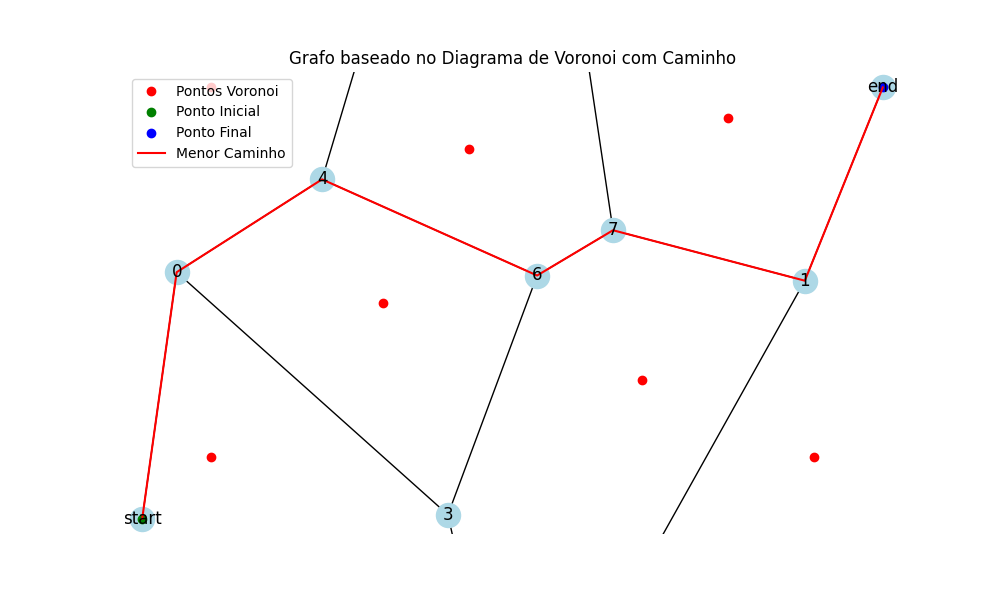
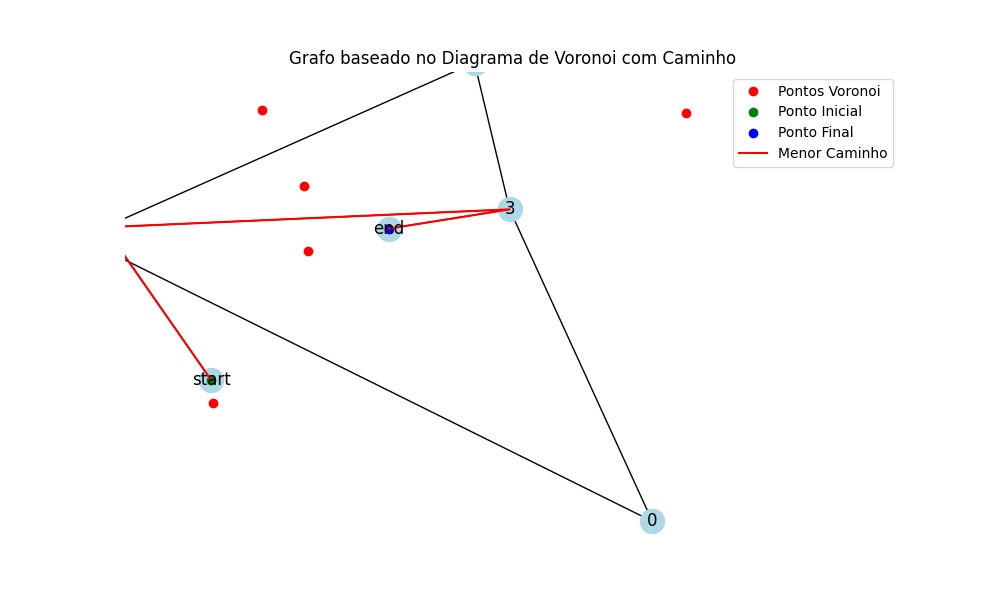
apenas execute o vizualizador, por em quanto caminho apenas para um bob, o voronoi ainda ta meia bomba, mas esta meio funcional, o suficiente para testar

diff --git a/motion/veronoi.py b/motion/veronoi.py
@@ -14,10 +14,10 @@ class VoronoiGraph:
     def __init__(self, points):
         """
         Inicializa o grafo baseado no diagrama de Voronoi.
-        :param points: Lista de pontos iniciais para o diagrama de Voronoi.
+        :param points: Lista de pontos iniciais para o diagrama de Voronoi (como objetos Pose2D).
         """
-        self.points = np.array(points)
-        self.vor = Voronoi(self.points)
+        self.points = [Pose2D(p.x, p.y) for p in points]
+        self.vor = Voronoi([[p.x, p.y] for p in self.points])
         self.graph = nx.Graph()
         self._build_graph()
 
@@ -35,12 +35,12 @@ class VoronoiGraph:
     def add_point(self, point, point_name):
         """
         Adiciona um ponto externo ao grafo, conectando-o ao vértice mais próximo.
-        :param point: Coordenadas do ponto a ser adicionado.
+        :param point: Objeto Pose2D representando o ponto a ser adicionado.
         :param point_name: Nome do ponto no grafo.
         :return: Índice do vértice mais próximo.
         """
-        closest_vertex = np.argmin([distance.euclidean(point, v) for v in self.vor.vertices])
-        dist_to_vertex = distance.euclidean(point, self.vor.vertices[closest_vertex])
+        closest_vertex = np.argmin([distance.euclidean([point.x, point.y], v) for v in self.vor.vertices])
+        dist_to_vertex = distance.euclidean([point.x, point.y], self.vor.vertices[closest_vertex])
         self.graph.add_node(point_name, pos=point)
         self.graph.add_edge(point_name, closest_vertex, weight=dist_to_vertex)
         return closest_vertex
@@ -54,27 +54,27 @@ class VoronoiGraph:
         """
         shortest_path = nx.shortest_path(self.graph, source=start_name, target=end_name, weight="weight")
         return [
-            Pose2D(*self.graph.nodes[node]["pos"]) if isinstance(node, str) else Pose2D(*self.vor.vertices[node])
+            self.graph.nodes[node]["pos"] if isinstance(node, str) else Pose2D(*self.vor.vertices[node])
             for node in shortest_path
         ]
 
     def visualize(self, start_point, end_point, shortest_path_coords, output_file="voronoi_path_output.png"):
         """
         Visualiza o grafo, os pontos e o menor caminho.
-        :param start_point: Coordenadas do ponto inicial.
-        :param end_point: Coordenadas do ponto final.
-        :param shortest_path_coords: Coordenadas do menor caminho.
+        :param start_point: Objeto Pose2D representando o ponto inicial.
+        :param end_point: Objeto Pose2D representando o ponto final.
+        :param shortest_path_coords: Lista de objetos Pose2D representando o menor caminho.
         :param output_file: Nome do arquivo de saída para salvar a imagem.
         """
-        pos = {i: v for i, v in enumerate(self.vor.vertices)}  # Posições dos vértices do Voronoi
-        pos["start"] = start_point  # Adiciona a posição do ponto inicial
-        pos["end"] = end_point      # Adiciona a posição do ponto final
+        pos = {i: [v[0], v[1]] for i, v in enumerate(self.vor.vertices)}  # Posições dos vértices do Voronoi
+        pos["start"] = [start_point.x, start_point.y]  # Adiciona a posição do ponto inicial
+        pos["end"] = [end_point.x, end_point.y]       # Adiciona a posição do ponto final
 
         fig, ax = plt.subplots(figsize=(10, 6))
         nx.draw(self.graph, pos=pos, with_labels=True, ax=ax, node_color='lightblue')
-        plt.plot(self.points[:, 0], self.points[:, 1], 'ro', label="Pontos Voronoi")
-        plt.plot(start_point[0], start_point[1], 'go', label="Ponto Inicial")
-        plt.plot(end_point[0], end_point[1], 'bo', label="Ponto Final")
+        plt.plot([p.x for p in self.points], [p.y for p in self.points], 'ro', label="Pontos Voronoi")
+        plt.plot(start_point.x, start_point.y, 'go', label="Ponto Inicial")
+        plt.plot(end_point.x, end_point.y, 'bo', label="Ponto Final")
 
         # Extrai os atributos x e y de cada Pose2D no caminho
         path_x = [pose.x for pose in shortest_path_coords]
@@ -92,11 +92,11 @@ class VoronoiGraph:
 
 if __name__ == '__main__':
     # Pontos iniciais do Voronoi
-    points = [[500, 500], [4000, 500], [2000, 2500], [3000, 1000], [1500, 1500], [3500, 2700], [500, 2900]]
+    points = [Pose2D(500, 500), Pose2D(4000, 500), Pose2D(2000, 2500)]
 
     # Pontos de início e fim (fora do Voronoi)
-    start_point = np.array([100, 100])
-    end_point = np.array([4400, 2900])
+    start_point = Pose2D(100, 100)
+    end_point = Pose2D(4400, 2900)
 
     # Cria o grafo baseado no diagrama de Voronoi
     voronoi_graph = VoronoiGraph(points)
@@ -108,11 +108,8 @@ if __name__ == '__main__':
     # Encontra o menor caminho entre os dois pontos
     shortest_path_coords = voronoi_graph.find_shortest_path("start", "end")
 
-    # Converte o caminho para uma lista de Pose2D
-    path_as_pose2d = shortest_path_coords
-
     # Exibe os pontos do caminho como Pose2D
-    for pose in path_as_pose2d:
+    for pose in shortest_path_coords:
         print(f"Pose2D(x={pose.x}, y={pose.y})")
 
     # Visualiza o grafo e o menor caminho

diff --git a/motion/visualization.py b/motion/visualization.py
@@ -2,6 +2,7 @@ import pygame
 import sys
 import random
 from utils.pose2D import Pose2D  # Importa a classe Pose2D
+from motion.veronoi import VoronoiGraph  # Importa a classe VoronoiGraph
 
 # Para rodar usar o comando python3 -m motion.visualization
 # com o terminal na pasta UTBots-SSL-EL-Strategy
@@ -47,10 +48,7 @@ def visualisation():
     linha_grossa = False
     ultima_tecla = False  # Variável para detectar clique único na tecla
 
-    # Pontos das trajetórias
-    pontos1 = [Pose2D(random.randint(0, MUNDO_LARGURA), random.randint(0, MUNDO_ALTURA)) for _ in range(NUM_PONTOS)]
-    pontos2 = []  # Lista vazia
-    pontos3 = []  # Lista vazia
+
 
     # Bobs inimigos
     pontosBobInimigos = [
@@ -67,6 +65,44 @@ def visualisation():
     # Inicializa a fonte para os números
     fonte = pygame.font.Font(None, 36)  # Fonte padrão com tamanho 36
 
+    # Pontos iniciais do Voronoi
+    points = pontosBobInimigos
+    
+    pontos2 = [Pose2D(random.randint(90, MUNDO_LARGURA - 90), random.randint(90, MUNDO_ALTURA - 90))]  # Lista vazia
+    pontos3 = [Pose2D(random.randint(90, MUNDO_LARGURA - 90), random.randint(90, MUNDO_ALTURA - 90))]  # Lista vazia
+
+    if pontos2:
+        points = points + [pontos2[0]]
+    if pontos3:
+        points = points + [pontos3[0]]
+
+    # Pontos de início e fim (fora do Voronoi)
+    start_point = Pose2D(500, 1000)
+    end_point = bola_laranja_pos
+
+    # Cria o grafo baseado no diagrama de Voronoi
+    voronoi_graph = VoronoiGraph(points) 
+
+    # Adiciona os pontos de início e fim ao grafo
+    voronoi_graph.add_point(start_point, "start")
+    voronoi_graph.add_point(end_point, "end")
+
+    # Encontra o menor caminho entre os dois pontos
+    shortest_path_coords = voronoi_graph.find_shortest_path("start", "end")
+
+    # Exibe os pontos do caminho como Pose2D
+    for pose in shortest_path_coords:
+        print(f"Pose2D(x={pose.x}, y={pose.y})")
+
+    # Visualiza o grafo e o menor caminho
+    voronoi_graph.visualize(start_point, end_point, shortest_path_coords)
+    
+    # Gera os pontos do caminho como Pose2D
+    pontos1 = voronoi_graph.find_shortest_path("start", "end")
+    
+
+    
+    
     # Função para desenhar uma trajetória com cor própria
     def desenhar_trajetoria(pontos, cor, largura):
         if not pontos:
